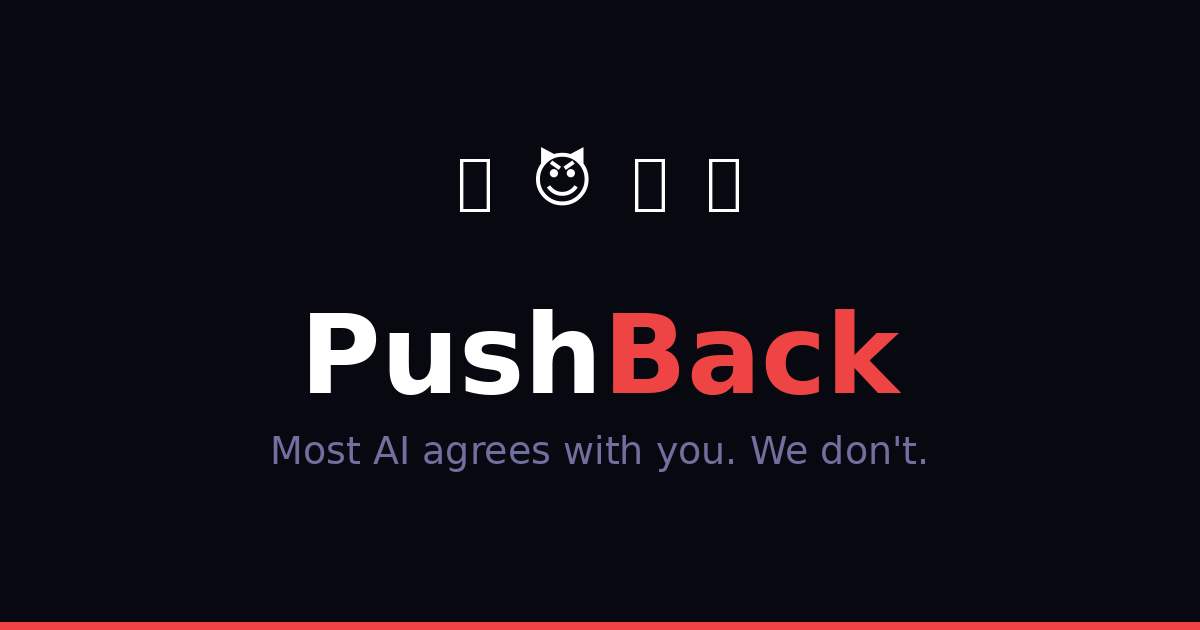
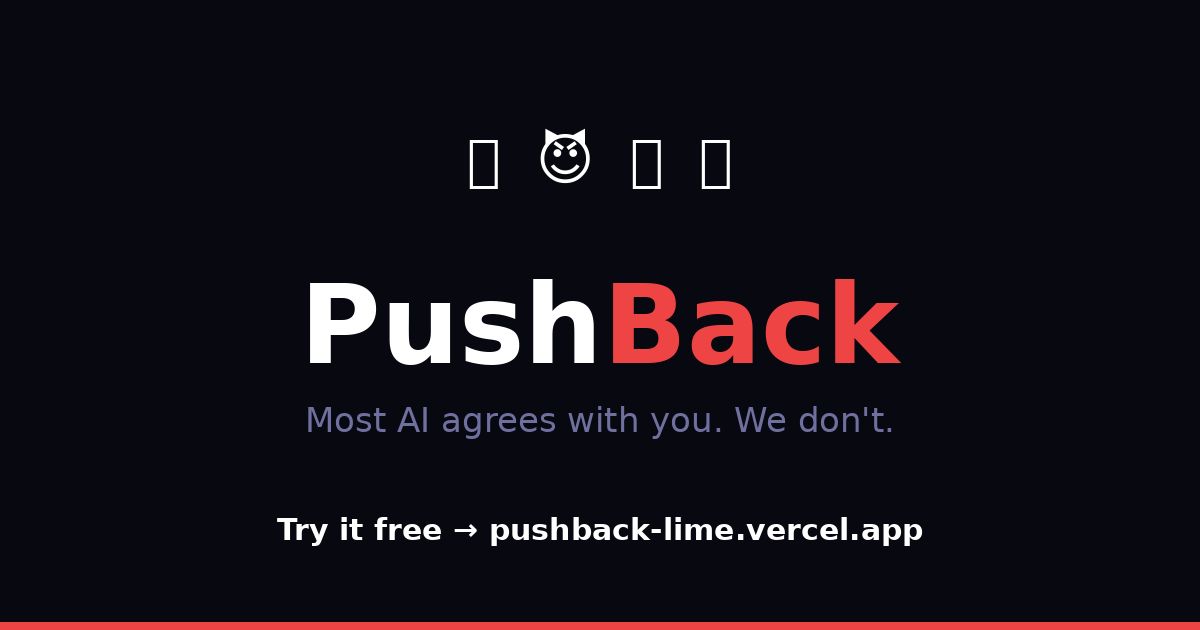
Fix OG: longer title, description, add CTA to image

diff --git a/index.html b/index.html
@@ -4,20 +4,20 @@
     <meta charset="UTF-8" />
     <meta name="viewport" content="width=device-width, initial-scale=1.0, viewport-fit=cover" />
     <link rel="icon" type="image/svg+xml" href="/favicon.svg" />
-    <title>PushBack — Most AI agrees with you. We don't.</title>
+    <title>PushBack — The AI that never agrees with you. Try it.</title>
 
     <!-- OG / Social sharing -->
-    <meta name="description" content="Pick a mode, state your opinion, and get argued back at. Hard. AI-powered mental sparring." />
+    <meta name="description" content="Pick a debate mode, state your opinion or idea, and get argued back at — hard. No validation, no agreement. Just sharp AI pushback that makes you think." />
 
     <meta property="og:type" content="website" />
     <meta property="og:url" content="https://pushback-lime.vercel.app" />
-    <meta property="og:title" content="PushBack — Most AI agrees with you. We don't." />
-    <meta property="og:description" content="Pick a mode, state your opinion, and get argued back at. Hard. AI-powered mental sparring." />
+    <meta property="og:title" content="PushBack — The AI that never agrees with you. Try it." />
+    <meta property="og:description" content="Pick a debate mode, state your opinion or idea, and get argued back at — hard. No validation, no agreement. Just sharp AI pushback that makes you think." />
     <meta property="og:image" content="https://pushback-lime.vercel.app/og-image.png" />
 
     <meta name="twitter:card" content="summary_large_image" />
-    <meta name="twitter:title" content="PushBack — Most AI agrees with you. We don't." />
-    <meta name="twitter:description" content="Pick a mode, state your opinion, and get argued back at. Hard. AI-powered mental sparring." />
+    <meta name="twitter:title" content="PushBack — The AI that never agrees with you. Try it." />
+    <meta name="twitter:description" content="Pick a debate mode, state your opinion or idea, and get argued back at — hard. No validation, no agreement. Just sharp AI pushback that makes you think." />
     <meta name="twitter:image" content="https://pushback-lime.vercel.app/og-image.png" />
   </head>
   <body>
